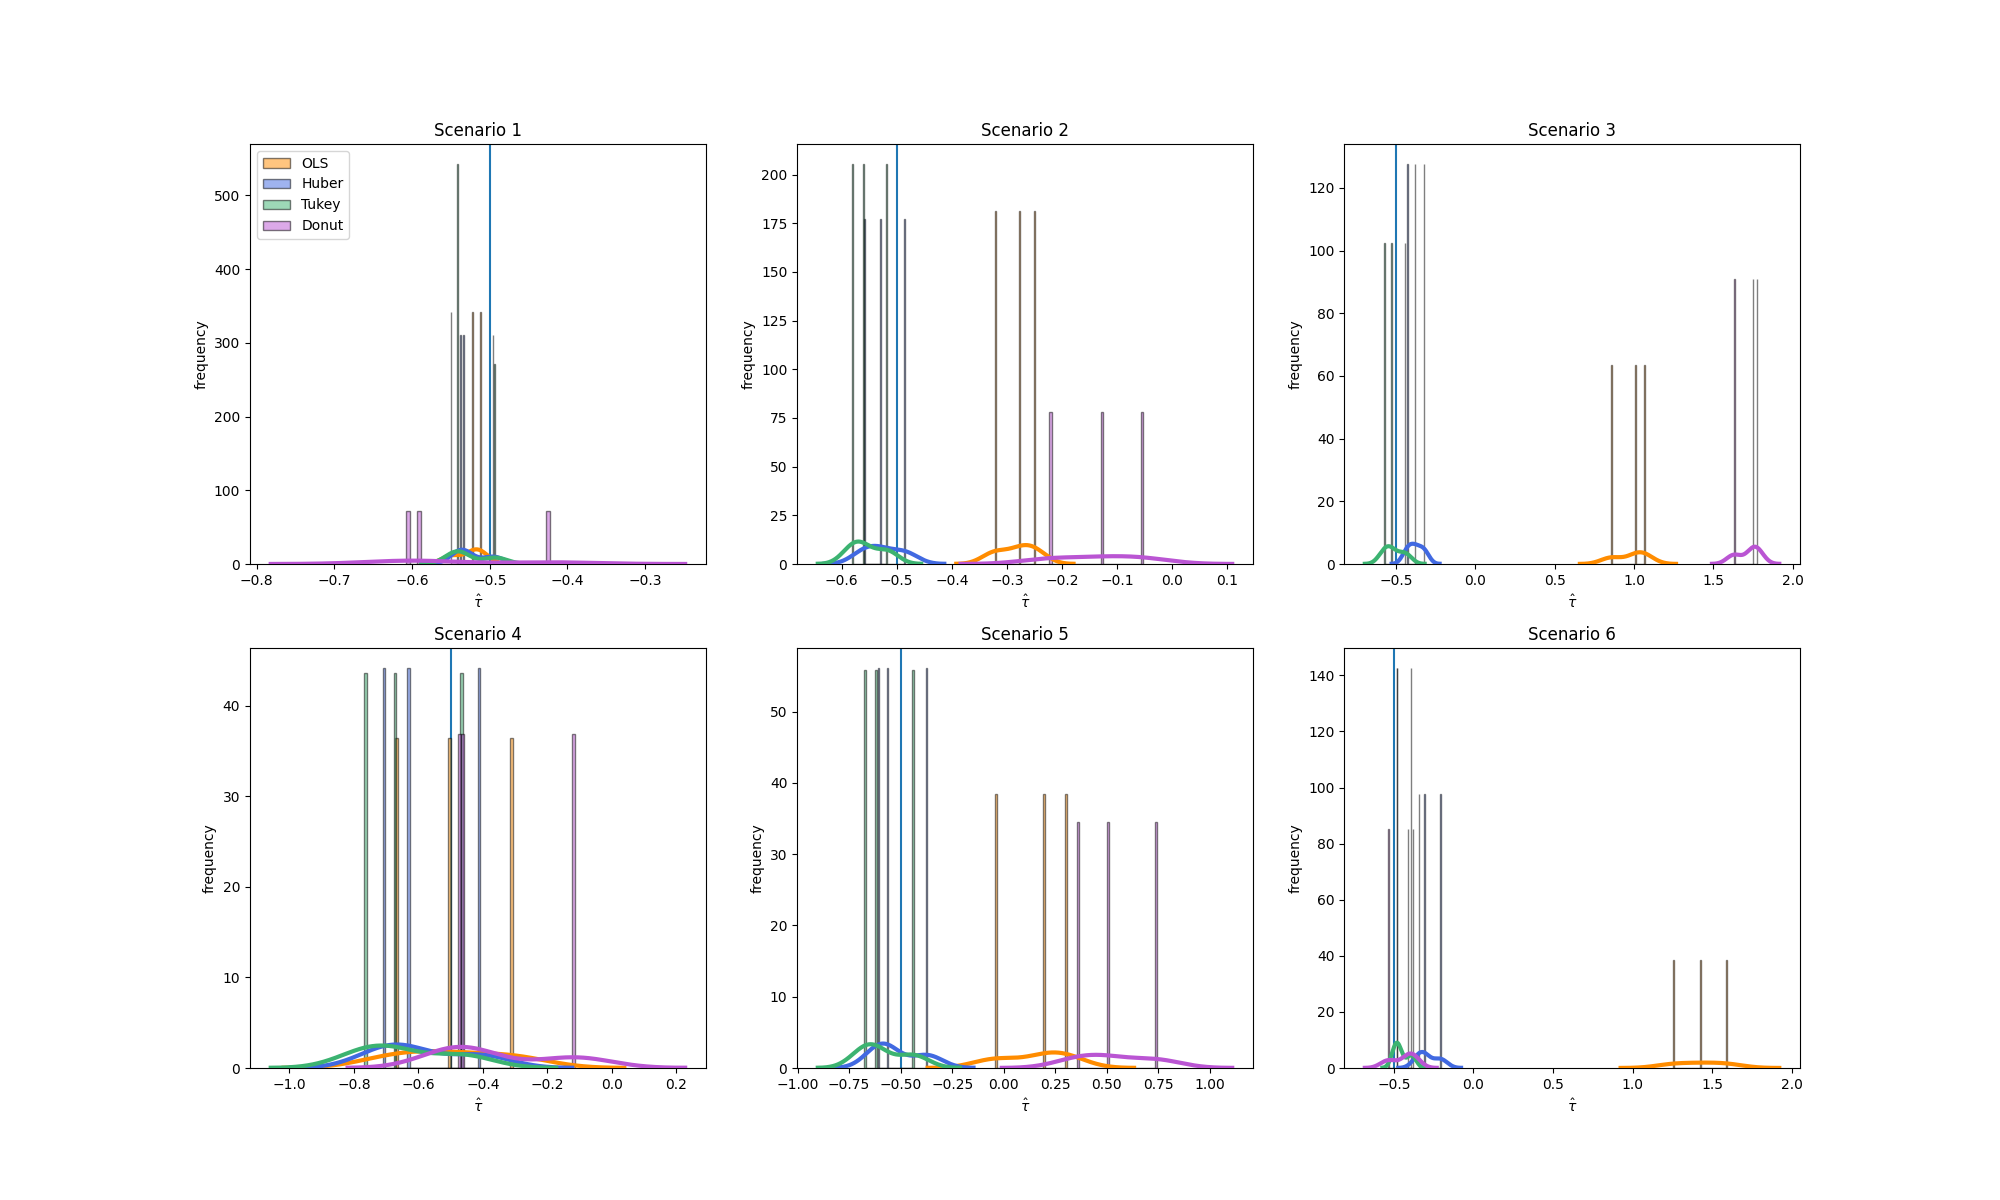
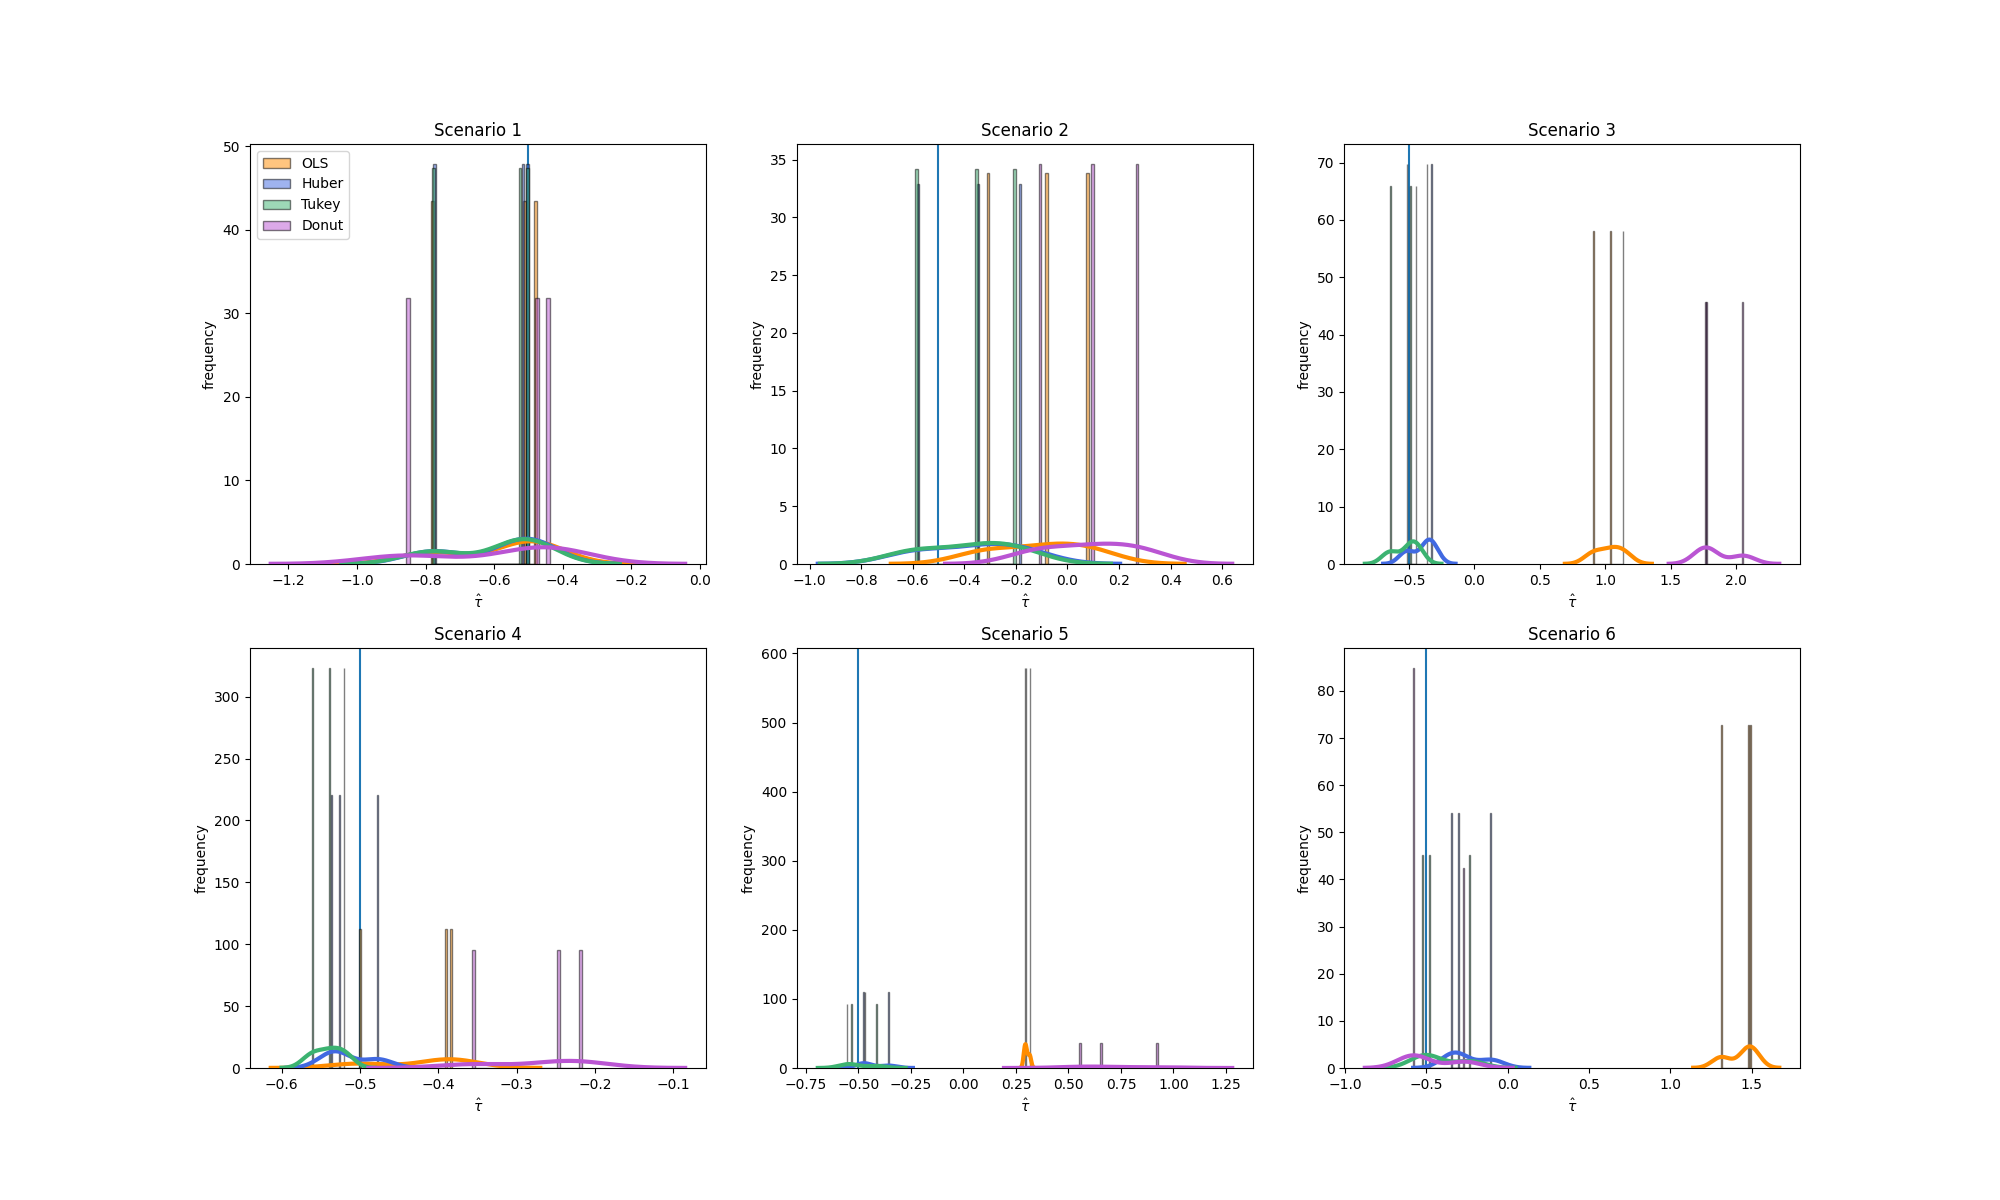
running only asymptotic sim

diff --git a/mainSim.py b/mainSim.py
@@ -2,7 +2,7 @@ import numpy as np
 from src.simulation import powerSimulations
 
 
-n, r, rAsymptotics = 250, 10, 3
+n, r, rAsymptotics = 250, 1, 100
 outlierScenarios = (
     "Simple Outside Right",
     1,
